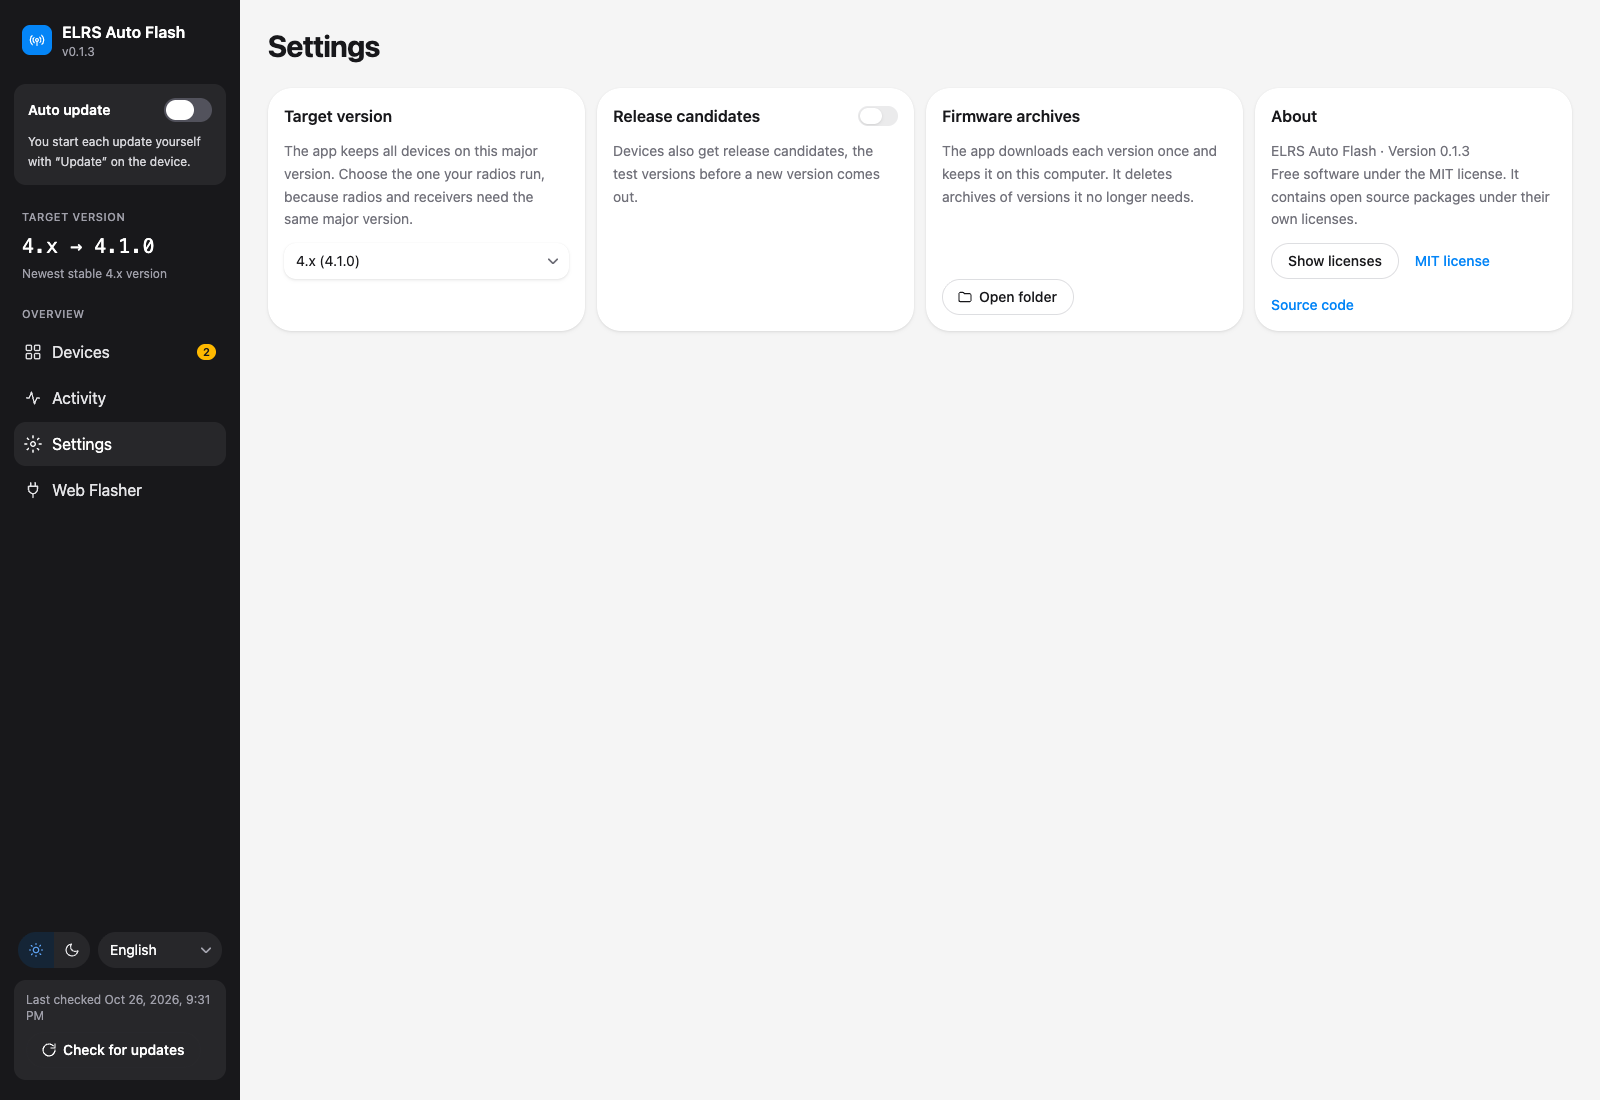
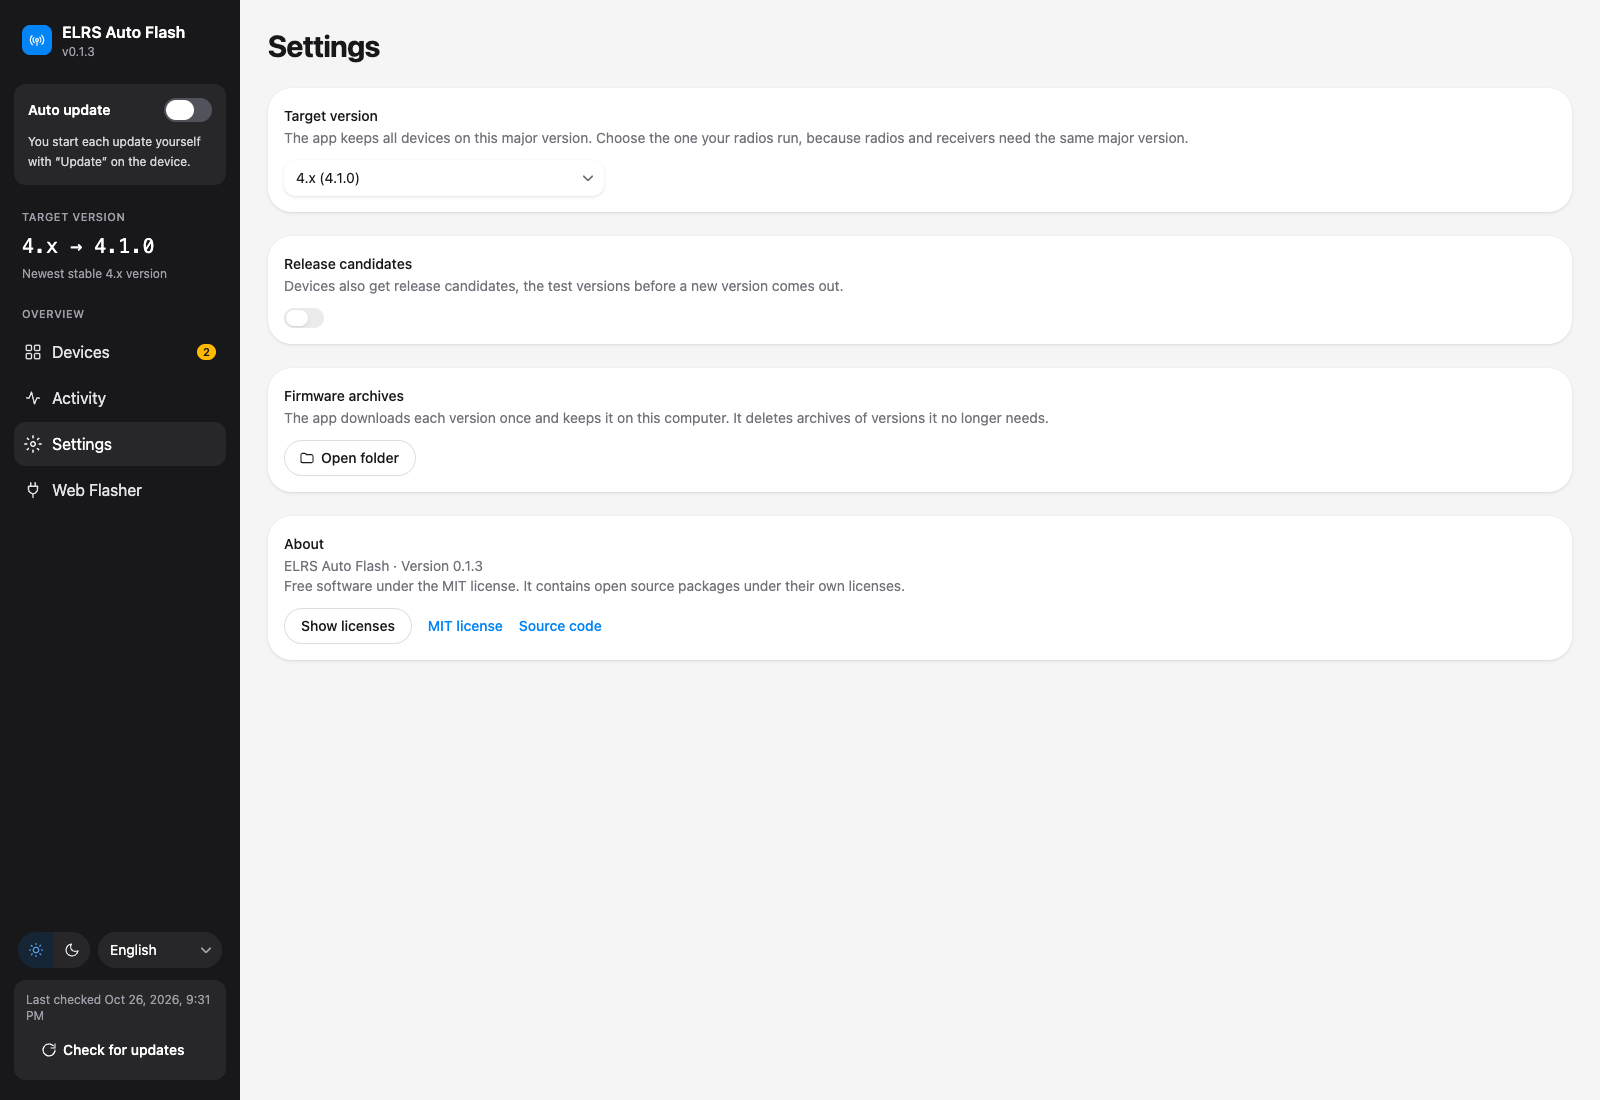
Lay out the settings page as full-width cards like the other apps

diff --git a/src/ui/pages/SettingsPage.tsx b/src/ui/pages/SettingsPage.tsx
@@ -15,92 +15,105 @@ export function SettingsPage({ state, run }: { state: StateView; run: Run }) {
     <div className="flex flex-col gap-6">
       <h1 className="m-0 text-3xl font-bold tracking-tight">{t.settings}</h1>
 
-      <div className="grid gap-3 [grid-template-columns:repeat(auto-fit,minmax(300px,1fr))]">
-        <Card>
-          <Card.Content className="flex flex-col gap-3">
-            <h2 className="m-0 text-base font-semibold">{t.targetMajor}</h2>
-            <p className="m-0 text-sm leading-relaxed text-muted">{t.targetMajorText}</p>
-            {state.majors.length === 0 ? (
-              <p className="m-0 text-sm">{t.noReleases}</p>
-            ) : (
-              <Select
-                aria-label={t.targetMajor}
-                selectedKey={s.targetMajor === undefined ? 'none' : String(s.targetMajor)}
-                onSelectionChange={(k) => k !== null && save({ targetMajor: k === 'none' ? null : Number(k) })}
-              >
-                <Select.Trigger>
-                  <Select.Value />
-                  <Select.Indicator />
-                </Select.Trigger>
-                <Select.Popover>
-                  <ListBox>
-                    <ListBox.Item id="none" textValue={t.none}>
-                      {t.none}
+      <Card>
+        <Card.Header>
+          <Card.Title>{t.targetMajor}</Card.Title>
+          <Card.Description>{t.targetMajorText}</Card.Description>
+        </Card.Header>
+        <Card.Footer>
+          {state.majors.length === 0 ? (
+            <p className="m-0 text-sm">{t.noReleases}</p>
+          ) : (
+            <Select
+              aria-label={t.targetMajor}
+              className="w-80 max-w-full"
+              selectedKey={s.targetMajor === undefined ? 'none' : String(s.targetMajor)}
+              onSelectionChange={(k) => k !== null && save({ targetMajor: k === 'none' ? null : Number(k) })}
+            >
+              <Select.Trigger>
+                <Select.Value />
+                <Select.Indicator />
+              </Select.Trigger>
+              <Select.Popover>
+                <ListBox>
+                  <ListBox.Item id="none" textValue={t.none}>
+                    {t.none}
+                    <ListBox.ItemIndicator />
+                  </ListBox.Item>
+                  {state.majors.map((m) => (
+                    <ListBox.Item key={m.major} id={String(m.major)} textValue={t.majorOption(m.major, m.tag)}>
+                      {t.majorOption(m.major, m.tag)}
                       <ListBox.ItemIndicator />
                     </ListBox.Item>
-                    {state.majors.map((m) => (
-                      <ListBox.Item key={m.major} id={String(m.major)} textValue={t.majorOption(m.major, m.tag)}>
-                        {t.majorOption(m.major, m.tag)}
-                        <ListBox.ItemIndicator />
-                      </ListBox.Item>
-                    ))}
-                  </ListBox>
-                </Select.Popover>
-              </Select>
-            )}
-          </Card.Content>
-        </Card>
+                  ))}
+                </ListBox>
+              </Select.Popover>
+            </Select>
+          )}
+        </Card.Footer>
+      </Card>
 
+      <Card>
+        <Card.Header>
+          <Card.Title>{t.releaseCandidates}</Card.Title>
+          <Card.Description>{t.rcText}</Card.Description>
+        </Card.Header>
+        {s.releaseCandidates && (
+          <Card.Content>
+            <p className="m-0 text-sm leading-relaxed text-warning">{t.rcWarning}</p>
+          </Card.Content>
+        )}
+        <Card.Footer>
+          <Switch aria-label={t.releaseCandidates} isSelected={s.releaseCandidates} onChange={(on) => save({ releaseCandidates: on })}>
+            <Switch.Content>
+              <Switch.Control>
+                <Switch.Thumb />
+              </Switch.Control>
+            </Switch.Content>
+          </Switch>
+        </Card.Footer>
+      </Card>
+
+      <Card>
+        <Card.Header>
+          <Card.Title>{t.firmwareFolder}</Card.Title>
+          <Card.Description>{t.firmwareFolderText}</Card.Description>
+        </Card.Header>
+        <Card.Footer>
+          <Button variant="outline" onPress={() => run(() => post('/api/open-firmware-folder'))}>
+            <FolderIcon size={16} />
+            {t.openFolder}
+          </Button>
+        </Card.Footer>
+      </Card>
+
+      {/* only the desktop app can delete them; in a browser they belong to its storage */}
+      {state.desktop && (
         <Card>
-          <Card.Content className="flex flex-col gap-3">
-            <Switch isSelected={s.releaseCandidates} onChange={(on) => save({ releaseCandidates: on })}>
-              <Switch.Content className="w-full justify-between">
-                <span className="text-base font-semibold">{t.releaseCandidates}</span>
+          <Card.Header>
+            <Card.Title>{t.rememberWebFlasher}</Card.Title>
+          </Card.Header>
+          <Card.Content>
+            <dl className="m-0 grid grid-cols-[auto_1fr] gap-x-2 gap-y-1 text-sm leading-relaxed text-muted">
+              <dt className="font-semibold text-foreground">{t.on}</dt>
+              <dd className="m-0">{t.rememberWebFlasherOn}</dd>
+              <dt className="font-semibold text-foreground">{t.off}</dt>
+              <dd className="m-0">{t.rememberWebFlasherOff}</dd>
+            </dl>
+          </Card.Content>
+          <Card.Footer>
+            <Switch aria-label={t.rememberWebFlasher} isSelected={s.rememberWebFlasher} onChange={(on) => save({ rememberWebFlasher: on })}>
+              <Switch.Content>
                 <Switch.Control>
                   <Switch.Thumb />
                 </Switch.Control>
               </Switch.Content>
             </Switch>
-            <p className="m-0 text-sm leading-relaxed text-muted">{t.rcText}</p>
-            {s.releaseCandidates && <p className="m-0 text-sm leading-relaxed text-warning">{t.rcWarning}</p>}
-          </Card.Content>
+          </Card.Footer>
         </Card>
+      )}
 
-        <Card>
-          <Card.Content className="flex flex-col gap-3">
-            <h2 className="m-0 text-base font-semibold">{t.firmwareFolder}</h2>
-            <p className="m-0 text-sm leading-relaxed text-muted">{t.firmwareFolderText}</p>
-            <Button variant="outline" className="mt-auto self-start" onPress={() => run(() => post('/api/open-firmware-folder'))}>
-              <FolderIcon size={16} />
-              {t.openFolder}
-            </Button>
-          </Card.Content>
-        </Card>
-
-        {/* only the desktop app can delete them; in a browser they belong to its storage */}
-        {state.desktop && (
-          <Card>
-            <Card.Content className="flex flex-col gap-3">
-              <Switch isSelected={s.rememberWebFlasher} onChange={(on) => save({ rememberWebFlasher: on })}>
-                <Switch.Content className="w-full justify-between">
-                  <span className="text-base font-semibold">{t.rememberWebFlasher}</span>
-                  <Switch.Control>
-                    <Switch.Thumb />
-                  </Switch.Control>
-                </Switch.Content>
-              </Switch>
-              <dl className="m-0 grid grid-cols-[auto_1fr] gap-x-2 gap-y-1 text-sm leading-relaxed text-muted">
-                <dt className="font-semibold text-foreground">{t.on}</dt>
-                <dd className="m-0">{t.rememberWebFlasherOn}</dd>
-                <dt className="font-semibold text-foreground">{t.off}</dt>
-                <dd className="m-0">{t.rememberWebFlasherOff}</dd>
-              </dl>
-            </Card.Content>
-          </Card>
-        )}
-
-        <AboutCard />
-      </div>
+      <AboutCard />
     </div>
   );
 }

diff --git a/src/ui/components/About.tsx b/src/ui/components/About.tsx
@@ -14,25 +14,25 @@ export function AboutCard() {
   const [open, setOpen] = useState(false);
   return (
     <Card>
-      <Card.Content className="flex flex-col gap-3">
-        <h2 className="m-0 text-base font-semibold">{t.about}</h2>
-        <p className="m-0 text-sm leading-relaxed text-muted">
+      <Card.Header>
+        <Card.Title>{t.about}</Card.Title>
+        <Card.Description>
           ELRS Auto Flash · {t.version(__APP_VERSION__)}
           <br />
           {t.license} {t.thirdParty}
-        </p>
-        <div className="mt-auto flex flex-wrap items-center gap-4">
-          <Button variant="outline" onPress={() => setOpen(true)}>
-            {t.showLicenses}
-          </Button>
-          <a href={`${REPO}/blob/main/LICENSE`} target="_blank" rel="noreferrer" className={linkClass}>
-            {t.mitLicense}
-          </a>
-          <a href={REPO} target="_blank" rel="noreferrer" className={linkClass}>
-            {t.sourceCode}
-          </a>
-        </div>
-      </Card.Content>
+        </Card.Description>
+      </Card.Header>
+      <Card.Footer className="flex flex-wrap items-center gap-4">
+        <Button variant="outline" onPress={() => setOpen(true)}>
+          {t.showLicenses}
+        </Button>
+        <a href={`${REPO}/blob/main/LICENSE`} target="_blank" rel="noreferrer" className={linkClass}>
+          {t.mitLicense}
+        </a>
+        <a href={REPO} target="_blank" rel="noreferrer" className={linkClass}>
+          {t.sourceCode}
+        </a>
+      </Card.Footer>
       {open && <LicensesDialog onClose={() => setOpen(false)} />}
     </Card>
   );
